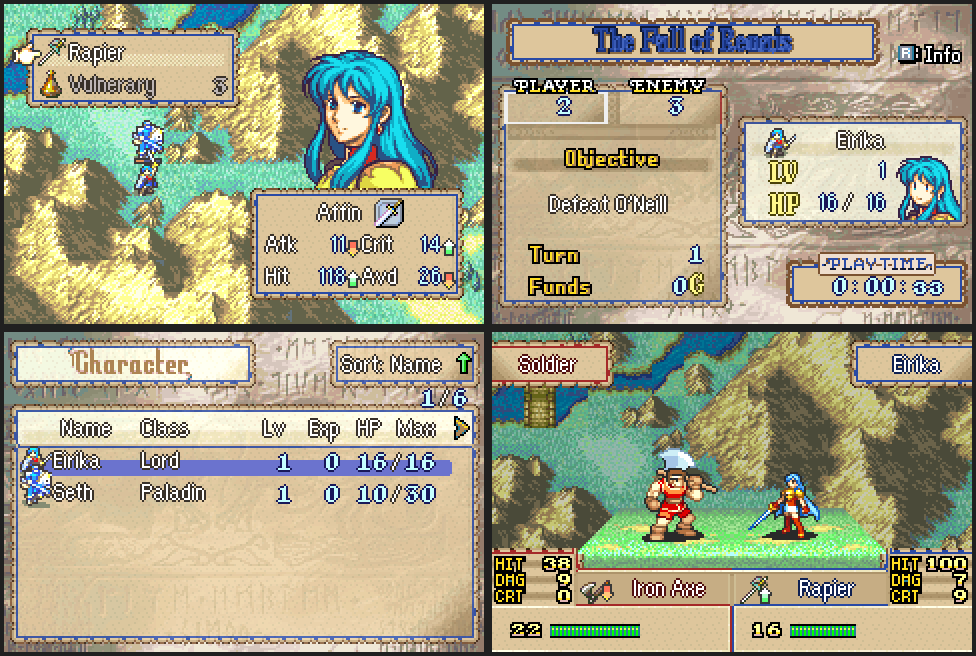
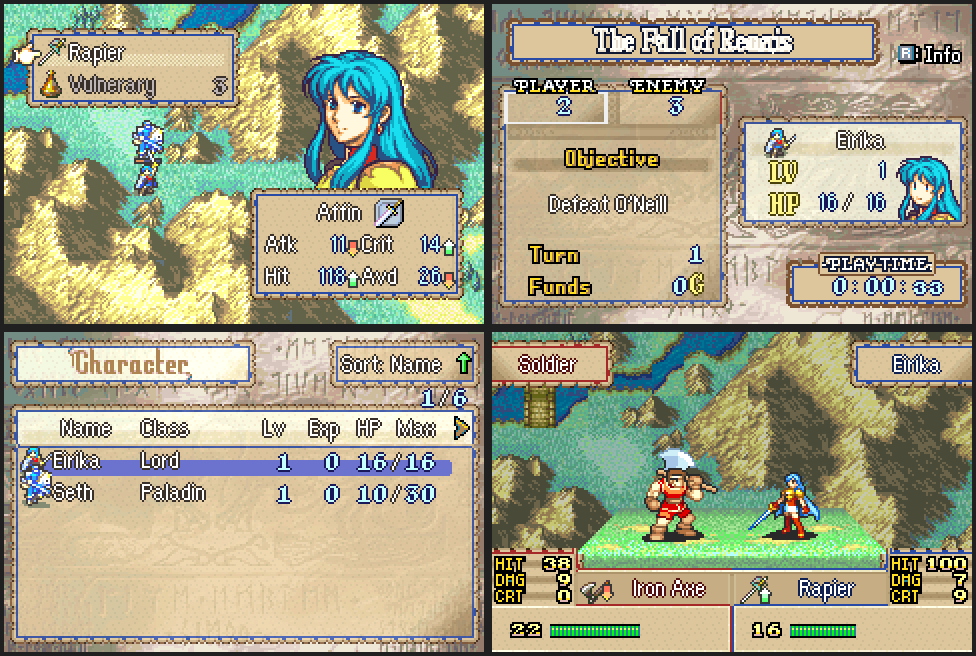
Letter the Parchment title and PLAY TIME like the game's text
Both are now a flat white face fully outlined in navy (matching the
clock digits), without the ink texture, two-tone shading or tan drop
shadow that made them hard to read on the paper.

Claude-Session: https://claude.ai/code/session_01Tw4Msv6aWGsnaGTgRodNJ7

Changed region(s): [[0.6148, 0.0305, 0.8299, 0.0915], [0.8299, 0.3659, 0.9529, 0.4268]]

diff --git a/Kernel/Wizardry/VeslyUI/png/Parchment/generate_parchment.py b/Kernel/Wizardry/VeslyUI/png/Parchment/generate_parchment.py
@@ -310,11 +310,10 @@ for slot, colour in style_tools.VANILLA_ICON_SLOTS.items():
 MENU_TO_SIGN = {0: 0, INK_DARK: 1, INK_LIGHT: 2, INK: 3, W: 4,
                 5: 5, 6: 5, 7: 5, SCORCH: 11, BURNT: 11,
                 10: 10, 11: 10, 12: 10, 13: 11, 14: 11, 15: 11}
-# Vanilla PLAY TIME colours (OBJ palette 9) -> SIGN_PALETTE: written in ink
-# on the slip, without an outline: blue ink face, navy where it pools at the
-# bottom of each stroke, a scorched brown drop shadow.
-LETTERS = {11: 3, 12: 3, 13: 1, 14: 11}
-LABEL_OUTLINE = 5
+# Vanilla PLAY TIME colours (OBJ palette 9) -> SIGN_PALETTE: lettered like
+# the game's own text, a flat white face in a navy outline (1), with no
+# shading and no drop shadow.
+LETTERS = {11: 4, 12: 4, 13: 4, 14: 10}
 # The rest of the sheet (a spare banner with dragons): aged paper, inked
 # dragons and trim.
 REST_OF_SHEET = {
@@ -326,11 +325,11 @@ ICON_COLOURS = style_tools.VANILLA_ICON_COLOURS
 
 
 def label_tab(px, left, top, right, bottom):
-    """A cream paper slip with a scorched edge."""
+    """A paper slip with a scorched edge."""
     for y in range(top, bottom + 1):
         for x in range(left, right + 1):
             d = min(x - left, right - x, y - top, bottom - y)
-            px[x, y] = 11 if d == 0 else 5
+            px[x, y] = 11 if d == 0 else 10
     for cx, cy in ((left, top), (right, top), (left, bottom), (right, bottom)):
         px[cx, cy] = 0
 

diff --git a/Kernel/Wizardry/VeslyUI/C_Code.c b/Kernel/Wizardry/VeslyUI/C_Code.c
@@ -1693,7 +1693,7 @@ static const void * sPlayStatusPal[] = {
  * letters, recoloured: cream and brown for wood, white and cyan for tech,
  * gold for royal, white and amber in lead for glass, white in black for paper,
  * white and aqua in deep water for ocean, white and leaf green for forest,
- * blue ink outlined in navy for parchment.
+ * white in navy for parchment.
  */
 static const u16 sChapterTitlePalWood[16] = {
     0x520E, 0x7BFF, 0x639E, 0x4B1B, 0x1D91, 0x08A9, 0x0444, 0x0000,
@@ -1730,10 +1730,14 @@ static const u16 sChapterTitlePalForest[16] = {
     0x0C64, 0x21A8, 0x25CA, 0x2E0C, 0x364D, 0x3E6F, 0x42B1, 0x4AD3,
 };
 
-/* Parchment recolours the letters' face texture (9-15) and drop shadow (8) too. */
+/*
+ * Parchment letters its chapter title like the game's own text: a flat white
+ * face (its texture entries, 9-15, are white too) in a navy outline (5) and
+ * a navy drop shadow (8), so each letter is edged all round.
+ */
 static const u16 sChapterTitlePalParchment[16] = {
-    0x520E, 0x5125, 0x5967, 0x44E4, 0x3CC3, 0x1862, 0x1041, 0x0000,
-    0x21B1, 0x5967, 0x5967, 0x5125, 0x44E4, 0x5D88, 0x5D88, 0x61A9,
+    0x520E, 0x7BFF, 0x7BFF, 0x7BFF, 0x677C, 0x1862, 0x1862, 0x0000,
+    0x1862, 0x7BFF, 0x7BFF, 0x7BFF, 0x7BFF, 0x7BFF, 0x7BFF, 0x7BFF,
 };
 
 static const u16 * const sChapterTitlePal[] = {

diff --git a/Documentation/Features/VeslyUIStyles.md b/Documentation/Features/VeslyUIStyles.md
@@ -158,7 +158,7 @@ Turn it on with `ENUT 0xB2` in an event (or `SetFlag(0xB2)` in C); it is `Forest
 
 ### 📜 Parchment
 
-A Parchment & Ink look. Each window is a sheet of aged paper with a faint fibre speckle. Its outer edge is the sheet's own: deckled, nibbled in and torn here and there, browning outward to a scorched rim with flecks of char. Just inside it runs a hand-drawn ink line that swells to 2 pixels here and there like a pen, so no two edges match. The corners are worn round, scorched a little darker where the sheet turns. The faction shows only in the ink colour; light panels are fresh cream paper. On the status screen the chapter name is lettered in blue ink outlined in navy, and PLAY TIME is written in ink on a cream slip.
+A Parchment & Ink look. Each window is a sheet of aged paper with a faint fibre speckle. Its outer edge is the sheet's own: deckled, nibbled in and torn here and there, browning outward to a scorched rim with flecks of char. Just inside it runs a hand-drawn ink line that swells to 2 pixels here and there like a pen, so no two edges match. The corners are worn round, scorched a little darker where the sheet turns. The faction shows only in the ink colour; light panels are fresh cream paper. On the status screen the chapter name and PLAY TIME are lettered like the game's own text, white in a navy outline, so they stay easy to read on the paper.
 
 Turn it on with `ENUT 0xB3` in an event (or `SetFlag(0xB3)` in C); it is `ParchmentStyleFlag`, style ID 11.
 
